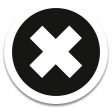
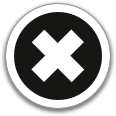
Larger webview

diff --git a/source/RepoViewController.m b/source/RepoViewController.m
@@ -19,40 +19,27 @@
     [super viewDidLoad];
 
     [self.delegate addItemViewController:self didFinishEnteringItem:NO];
-    
-    NSArray *versionParts = [[UIDevice currentDevice].systemVersion componentsSeparatedByString:@"."];
-    BOOL modernStyle = (7 >= [[versionParts objectAtIndex:0] intValue]);
-    CGFloat barHeight = (modernStyle ? 44  : 44);
-    UINavigationBar *bar = [[UINavigationBar alloc] initWithFrame:CGRectMake(0, 0, 320, barHeight)];
-    self.webView = [[UIWebView alloc] initWithFrame:CGRectMake(0, barHeight, self.view.frame.size.width,self.view.frame.size.height)];
+    self.webView = [[UIWebView alloc] initWithFrame:CGRectMake(0, 0, self.view.frame.size.width,self.view.frame.size.height)];
     
     [self.view addSubview:self.webView];
+    
+    UIImage *removeImg = [UIImage imageNamed:@"x_circle.png"];
+    UIButton *removeBtn = [UIButton buttonWithType:UIButtonTypeCustom];
+    [removeBtn setBackgroundImage:removeImg forState:UIControlStateNormal];
+    removeBtn.frame = CGRectMake(8,8,33,33);
+    [removeBtn addTarget:self action:@selector(remove:) forControlEvents:UIControlEventTouchUpInside];
+    [self.view addSubview:removeBtn];
+    
     hud = [MBProgressHUD showHUDAddedTo:self.view animated:YES];
     hud.mode = MBProgressHUDModeIndeterminate;
     hud.animationType = MBProgressHUDAnimationZoomIn;
     hud.labelText = @"Loading";
-    [self.view addSubview:bar];
     
     for (id subView in [self.view subviews]) {
         if ([subView respondsToSelector:@selector(flashScrollIndicators)]) {
             [subView flashScrollIndicators];
         }
     }
-    
-    UIImage *removeImg = [UIImage imageNamed:@"remove.png"];
-    
-    UIButton *removeBtn = [UIButton buttonWithType:UIButtonTypeCustom];
-    [removeBtn setBackgroundImage:removeImg forState:UIControlStateNormal];
-    removeBtn.frame = CGRectMake(0,0,33,19);
-    
-    [removeBtn addTarget:self action:@selector(remove:) forControlEvents:UIControlEventTouchUpInside];
-    UIBarButtonItem *saveBarBtn = [[UIBarButtonItem alloc] initWithCustomView:removeBtn];
-    
-    self.navigationItem.rightBarButtonItem = saveBarBtn;
-    
-    UINavigationItem *item = [[UINavigationItem alloc] init];
-    [item setRightBarButtonItem:saveBarBtn];
-    [bar setItems:[NSArray arrayWithObject:item]];
     
     self.webView.delegate = self;
     NSURLRequest *request = [NSURLRequest requestWithURL:self.url];
